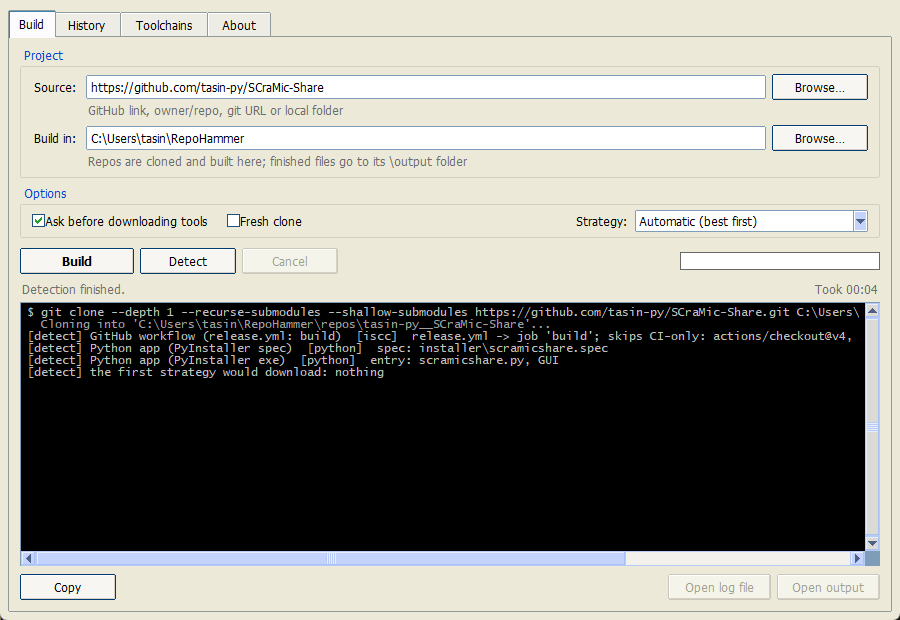
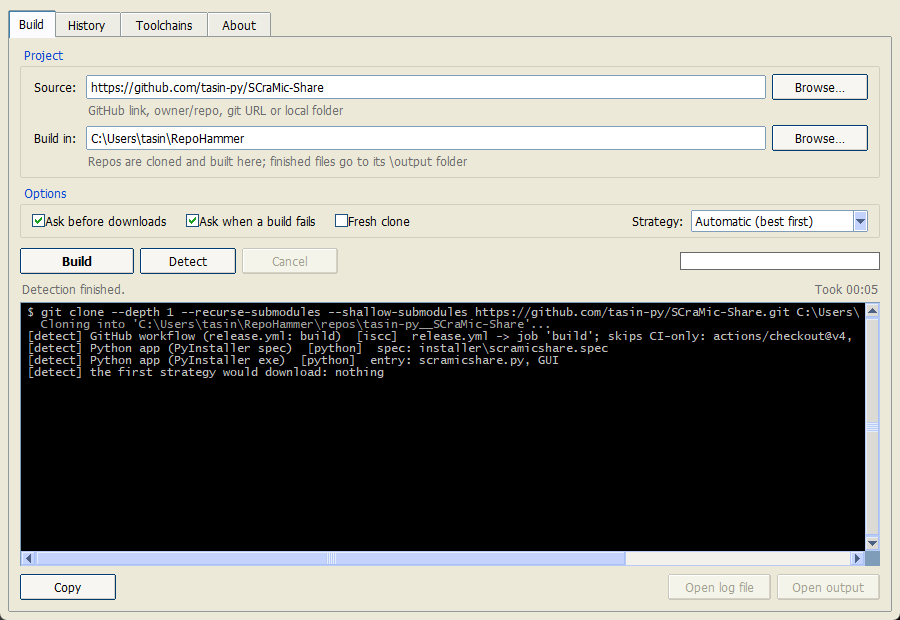
RepoHammer 1.2.0: ask what to do when a build fails
- Retry / Try another way / Stop popup after a failed strategy, with the reason, applied fixes and attempt time
- Same question on the command line; --no-ask keeps the automatic behaviour
- 'Ask when a build fails' option; download checkbox renamed 'Ask before downloads'
- README, changelog and screenshots updated

Changed region(s): [[0.6222, 0.3371, 0.9022, 0.3984], [0.1867, 0.3371, 0.4667, 0.3677]]

diff --git a/hammer/gui.py b/hammer/gui.py
@@ -152,6 +152,80 @@ class DownloadDialog(tk.Toplevel):
         self.destroy()
 
 
+class RetryDialog(tk.Toplevel):
+    """'This strategy failed - retry, try another way, or stop?'  R / T / S (Esc = stop)."""
+
+    def __init__(self, master, info):
+        super().__init__(master)
+        self.result = "stop"
+        remaining = info["remaining"]
+        self.title("Build failed")
+        self.configure(bg=FACE)
+        self.resizable(False, False)
+        self.transient(master)
+        body = ttk.Frame(self, padding=(16, 14, 16, 12))
+        body.pack(fill="both", expand=True)
+        took = fmt_secs(info["secs"]) if info["secs"] >= 1 else "under a second"
+        head = f"{info['plan']} didn't work (attempt {info['attempt']}, took {took})."
+        ttk.Label(body, text=head, wraplength=470, justify="left", font=FONT_B).pack(anchor="w")
+
+        box = tk.Frame(body, bg=BORDER)
+        box.pack(fill="x", pady=(8, 6))
+        lst = tk.Frame(box, bg=WHITE)
+        lst.pack(fill="x", padx=1, pady=1)
+        reasons = info["reasons"] or ["No known cause was recognised. The first error in the log shows what went wrong."]
+        for r in reasons[:4]:
+            tk.Label(lst, text="•  " + r, bg=WHITE, fg=TEXT, font=FONT, anchor="w", justify="left",
+                     wraplength=440).pack(fill="x", padx=8, pady=2)
+        if info["fixes"]:
+            note = "RepoHammer fixed: " + "; ".join(info["fixes"]) + ". Retrying should get further."
+        else:
+            note = ("Nothing was changed, so a retry will probably fail the same way, "
+                    "unless you fixed something yourself (for example, closed a program or reconnected).")
+        ttk.Label(body, text=note, style="Grey.TLabel", wraplength=470, justify="left").pack(anchor="w")
+        ttk.Label(body, text="A retry runs this strategy again; files already built are usually reused, "
+                  "so it's often faster.", style="Grey.TLabel", wraplength=470, justify="left").pack(anchor="w")
+
+        btns = ttk.Frame(body)
+        btns.pack(fill="x", pady=(12, 0))
+        retry = ttk.Button(btns, text="Retry", width=10, command=lambda: self._pick("retry"), underline=0)
+        retry.pack(side="left")
+        other = None
+        if remaining:
+            self.choice = ttk.Combobox(btns, state="readonly", width=28, values=remaining)
+            self.choice.current(0)
+            other = ttk.Button(btns, text="Try another way:", width=16, underline=0,
+                               command=lambda: self._pick(("plan", self.choice.get())))
+            other.pack(side="left", padx=(6, 4))
+            self.choice.pack(side="left")
+        stop = ttk.Button(btns, text="Stop", width=9, command=lambda: self._pick("stop"), underline=0)
+        stop.pack(side="right")
+        default = retry if (info["fixes"] or not other) else other
+        default.configure(style="Default.TButton")
+        keys = "Retry: R  ·  Another way: T  ·  Stop: S" if other else "Retry: R  ·  Stop: S"
+        ttk.Label(body, text=keys, style="Grey.TLabel").pack(anchor="w", pady=(6, 0))
+        self.bind("<Key-r>", lambda _e: self._pick("retry"))
+        self.bind("<Key-R>", lambda _e: self._pick("retry"))
+        if other:
+            self.bind("<Key-t>", lambda _e: other.invoke())
+            self.bind("<Key-T>", lambda _e: other.invoke())
+        for k in ("<Key-s>", "<Key-S>", "<Escape>"):
+            self.bind(k, lambda _e: self._pick("stop"))
+        self.bind("<Return>", lambda _e: default.invoke())
+        self.protocol("WM_DELETE_WINDOW", lambda: self._pick("stop"))
+        self.update_idletasks()
+        x = master.winfo_rootx() + (master.winfo_width() - self.winfo_width()) // 2
+        y = master.winfo_rooty() + (master.winfo_height() - self.winfo_height()) // 3
+        self.geometry(f"+{max(0, x)}+{max(0, y)}")
+        default.focus_set()
+        self.grab_set()
+        self.wait_window()
+
+    def _pick(self, choice):
+        self.result = choice
+        self.destroy()
+
+
 class App(tk.Tk):
     def __init__(self):
         super().__init__()
@@ -281,9 +355,11 @@ class App(tk.Tk):
         opts.pack(fill="x", pady=(8, 0))
         self.ask_dl = tk.BooleanVar(value=self.settings.get("ask_downloads", True))
         self.fresh = tk.BooleanVar(value=False)
-        ttk.Checkbutton(opts, text="Ask before downloading tools", variable=self.ask_dl).pack(side="left")
+        ttk.Checkbutton(opts, text="Ask before downloads", variable=self.ask_dl).pack(side="left")
+        self.ask_fail = tk.BooleanVar(value=self.settings.get("ask_on_fail", True))
+        ttk.Checkbutton(opts, text="Ask when a build fails", variable=self.ask_fail).pack(side="left", padx=(12, 0))
         ttk.Checkbutton(opts, text="Fresh clone", variable=self.fresh).pack(side="left", padx=(12, 0))
-        self.strategy = ttk.Combobox(opts, state="readonly", width=30, values=["Automatic (best first)"])
+        self.strategy = ttk.Combobox(opts, state="readonly", width=22, values=["Automatic (best first)"])
         self.strategy.current(0)
         self.strategy.pack(side="right")
         ttk.Label(opts, text="Strategy:").pack(side="right", padx=(0, 6))
@@ -449,8 +525,25 @@ class App(tk.Tk):
         ask = self.ask_dl.get()
         self.builder = build.Builder(wd, log=lambda m: self.q.put(("log", m)), auto_install=not ask,
                                      on_event=lambda *a: self.q.put(("event", a)),
-                                     confirm=self._confirm_from_worker if ask else None)
+                                     confirm=self._confirm_from_worker if ask else None,
+                                     on_fail=self._fail_from_worker if self.ask_fail.get() else None)
         return self.builder
+
+    # ------------------------------------------------------------ retry question
+    def _fail_from_worker(self, info):
+        """Called on the build thread after a strategy fails: ask retry / another way / stop."""
+        answer, done = ["stop"], threading.Event()
+        self.q.put(("fail", (info, answer, done)))
+        done.wait()
+        return answer[0]
+
+    def _ask_retry(self, info, answer, done):
+        started = time.time()
+        answer[0] = RetryDialog(self, info).result
+        self.t_start += time.time() - started  # time spent deciding isn't build time
+        if answer[0] != "stop":
+            self.estimate = None  # the old estimate no longer fits; the next strategy sets a new one
+        done.set()
 
     # ------------------------------------------------------------ download question
     def _confirm_from_worker(self, items, context):
@@ -506,7 +599,7 @@ class App(tk.Tk):
         b = self._new_builder()
         if not b:
             return
-        self.settings.update(ask_downloads=self.ask_dl.get())
+        self.settings.update(ask_downloads=self.ask_dl.get(), ask_on_fail=self.ask_fail.get())
         save_settings(self.settings)
         self._clear_log()
         choice = self.strategy.get()
@@ -581,6 +674,8 @@ class App(tk.Tk):
                     self._done(val)
                 elif kind == "ask":
                     self._ask_downloads(*val)
+                elif kind == "fail":
+                    self._ask_retry(*val)
                 elif kind == "tools":
                     self._waiting = max(0, self._waiting - 1)
                     self._fill_tools(val)

diff --git a/hammer/build.py b/hammer/build.py
@@ -25,8 +25,11 @@ class Cancelled(Exception):
 
 
 class Builder:
-    def __init__(self, workdir=DEFAULT_WORKDIR, log=print, auto_install=True, on_event=None, confirm=None):
+    def __init__(self, workdir=DEFAULT_WORKDIR, log=print, auto_install=True, on_event=None, confirm=None,
+                 on_fail=None):
         self.workdir = os.path.normpath(workdir)
+        # on_fail(info) -> 'retry' | 'next' | ('plan', name) | 'stop' lets the user decide after a failure.
+        self._on_fail = on_fail
         # confirm(items, context) -> bool asks the user before anything is downloaded.
         # items: [(id, label, approx size)]. Without it, auto_install decides.
         self._confirm = confirm
@@ -142,29 +145,56 @@ class Builder:
             out_dir = os.path.join(self.workdir, "output", name, stamp)
             any_ok = False
             self._why = []
+            stopped = False
             for cwd, group in groups.items():
-                for plan in group:
-                    self._check()
-                    started = time.time()
-                    self.event("plan", plan.name)
-                    self._tail = []
-                    ok = self._run_plan(plan)
-                    if not ok and not self._cancel.is_set():
-                        fixes = heal.heal(chr(10).join(self._tail), self)
-                        if fixes:
-                            self.log(f"[heal] retrying {plan.name} after {len(fixes)} fix(es)")
-                            self._tail = []
-                            ok = self._run_plan(plan)
-                    if not ok:
-                        self._why += heal.diagnose(chr(10).join(self._tail))
+                order = list(group)
+                i = 0
+                built_here = False
+                while i < len(order) and not stopped:
+                    plan = order[i]
+                    attempt = 0
+                    while True:
+                        self._check()
+                        started = time.time()
+                        self.event("plan", plan.name)
+                        self._tail = []
+                        attempt += 1
+                        ok = self._run_plan(plan)
+                        if ok:
+                            break
+                        self._check()
+                        tail = chr(10).join(self._tail)
+                        fixes = heal.heal(tail, self)
+                        reasons = heal.diagnose(tail)
+                        choice = self._after_failure(plan, order[i + 1:], fixes, reasons, attempt,
+                                                     time.time() - started)
+                        if choice == "retry":
+                            self.log(f"[build] retrying {plan.name} (attempt {attempt + 1})"
+                                     + (f" after {len(fixes)} fix(es)" if fixes else ""))
+                            continue
+                        self._why += reasons
+                        if choice == "stop":
+                            stopped = True
+                        elif isinstance(choice, tuple):  # ("plan", name): jump to that strategy next
+                            pick = next((p for p in order[i + 1:] if p.name == choice[1]), None)
+                            if pick:
+                                order.remove(pick)
+                                order.insert(i + 1, pick)
+                        break
                     if ok:
                         files = self._collect(plan, started, src, out_dir)
                         result["built"].append(plan.name)
                         result["artifacts"] += files
-                        any_ok = True
+                        any_ok = built_here = True
                         break
-                    self.log(f"[build] {plan.name} failed - trying the next strategy\n")
-                else:
+                    if stopped:
+                        self.log(f"[build] {plan.name} failed - stopping here, as you chose")
+                    elif i + 1 < len(order):
+                        self.log(f"[build] {plan.name} failed - trying {order[i + 1].name}\n")
+                    i += 1
+                if stopped:
+                    break
+                if not built_here:
                     self.log(f"[build] every strategy failed for {os.path.relpath(cwd, src)}")
             result["ok"] = any_ok
             result["output"] = out_dir if result["artifacts"] else ""
@@ -194,6 +224,24 @@ class Builder:
             result["secs"] = round(time.time() - t0)
             self._save_history(result)
         return result
+
+    def _after_failure(self, plan, remaining, fixes, reasons, attempt, secs):
+        """What to do after a strategy failed: 'retry', 'next', ('plan', name) or 'stop'.
+
+        With an on_fail callback the user decides; without one RepoHammer retries once,
+        and only when a fix was applied, then moves on to the next strategy."""
+        if self._on_fail:
+            info = {"plan": plan.name, "remaining": [p.name for p in remaining], "fixes": fixes,
+                    "reasons": reasons, "attempt": attempt, "secs": round(secs)}
+            try:
+                choice = self._on_fail(info)
+            except Exception:
+                choice = None
+            if choice in ("retry", "next", "stop") or (isinstance(choice, tuple) and choice[0] == "plan"):
+                if choice == "next" and not remaining:
+                    return "stop"
+                return choice
+        return "retry" if (fixes and attempt == 1) else "next"
 
     # ------------------------------------------------------------ plans
     def _check(self):

diff --git a/hammer/cli.py b/hammer/cli.py
@@ -22,6 +22,33 @@ def ask(items, context):
         return False
 
 
+def ask_retry(info):
+    """Terminal version of the 'build failed - what now?' question."""
+    print()
+    print(f"{info['plan']} didn't work (attempt {info['attempt']}, took {info['secs']}s).")
+    for r in info["reasons"][:4]:
+        print(f"  - {r}")
+    if info["fixes"]:
+        print("  RepoHammer fixed: " + "; ".join(info["fixes"]) + ". Retrying should get further.")
+    if not sys.stdin or not sys.stdin.isatty():
+        return "retry" if (info["fixes"] and info["attempt"] == 1) else "next"
+    rest = info["remaining"]
+    if rest:
+        print("  Other ways to build: " + ", ".join(f"[{i}] {n}" for i, n in enumerate(rest, 1)))
+    prompt = "[R]etry, " + ("[T]ry the next way (or its number), " if rest else "") + "[S]top? "
+    try:
+        a = input(prompt).strip().lower()
+    except EOFError:
+        return "stop"
+    if a in ("r", "retry"):
+        return "retry"
+    if rest and a.isdigit() and 1 <= int(a) <= len(rest):
+        return ("plan", rest[int(a) - 1])
+    if rest and a in ("", "t", "n", "next"):
+        return "next"
+    return "stop"
+
+
 def main(argv):
     for stream in (sys.stdout, sys.stderr):
         try:
@@ -35,6 +62,8 @@ def main(argv):
     b.add_argument("--yes", "-y", action="store_true", help="download needed tools without asking")
     b.add_argument("--no-install", action="store_true", help="never download tools (answer No)")
     b.add_argument("--fresh", action="store_true", help="delete any previous clone first")
+    b.add_argument("--no-ask", action="store_true",
+                   help="don't ask after a failure: retry once if a fix was applied, then try the next way")
     b.add_argument("--plan", help="force a specific strategy by name")
     b.add_argument("--workdir", default=build.DEFAULT_WORKDIR)
     d = sub.add_parser("detect", help="show how a repository would be built")
@@ -57,7 +86,8 @@ def main(argv):
                       + ("  (optional)" if any(getattr(a, "soft", False) for a in s) else ""))
         return 0 if plans else 1
     confirm = None if (a.yes or a.no_install) else ask
-    res = build.Builder(a.workdir, auto_install=a.yes, confirm=confirm).run(a.repo, a.fresh, a.plan)
+    res = build.Builder(a.workdir, auto_install=a.yes, confirm=confirm,
+                        on_fail=None if a.no_ask else ask_retry).run(a.repo, a.fresh, a.plan)
     return 0 if res["ok"] else 1
 
 

diff --git a/hammer/__init__.py b/hammer/__init__.py
@@ -1,7 +1,7 @@
 """RepoHammer - build any GitHub repository locally, automatically."""
 
 APP_NAME = "RepoHammer"
-VERSION = "1.1.0"
+VERSION = "1.2.0"
 DESCRIPTION = ("Paste a GitHub link and RepoHammer clones it, detects how it builds, "
                "asks before downloading any missing tools, and compiles it on your own PC.")
 LICENSE = "MIT"

diff --git a/README.md b/README.md
@@ -47,7 +47,7 @@ It's one small Python app with no packages to install. It uses about 45 MB of RA
   | Others | Flutter, Deno, Docker |
 
 - **Asks before downloading anything.** After checking the repo, RepoHammer lists the tools it needs with their approximate sizes. Press **Y** to download them with winget (Git, Node, the right .NET SDK, Visual Studio Build Tools, CMake, Inno Setup and more), or **N** to skip them and try other ways to build.
-- **Backs off and retries.** Each step has fallbacks (for example `npm ci` → `npm install` → `npm install --legacy-peer-deps`), and if one approach fails it moves on to the next.
+- **You decide what happens after a failure.** Each step has fallbacks (for example `npm ci` → `npm install` → `npm install --legacy-peer-deps`). If a whole strategy still fails, RepoHammer shows why and asks: **Retry**, **Try another way** (pick from the other strategies) or **Stop**. Untick **Ask when a build fails** to let it retry once after a fix and then move on by itself.
 - **Fixes common failures by itself:** missing .NET Framework reference assemblies, a newer .NET SDK needed, no Rust toolchain selected, Git long-path and ownership errors, and old webpack OpenSSL errors.
 - **Explains failures it can't fix,** for example *"The source code is incomplete: the project expects 3 file(s) that aren't in the download."*
 - **Collects the results** into `output\<repo>\<time>\`, with a full log of every build.
@@ -66,6 +66,10 @@ It's one small Python app with no packages to install. It uses about 45 MB of RA
 Before anything is downloaded, RepoHammer asks:
 
 <p align="center"><img src="docs/screenshots/download-question.png" alt="Dialog listing Zig (about 50 MB) as a needed download, with Yes and No buttons" width="470"></p>
+
+If a strategy fails, it tells you why and lets you choose what happens next:
+
+<p align="center"><img src="docs/screenshots/retry-question.png" alt="Build failed dialog with the reason, the fix RepoHammer applied, and Retry, Try another way and Stop buttons" width="596"></p>
 
 ## Install
 
@@ -91,7 +95,7 @@ To update later, open **About** and click **Check for Updates**. RepoHammer down
 1. Paste a GitHub link into **Source**, or click **Browse…** to pick a folder.
 2. Optionally change **Build in**, the folder where repos are cloned and built.
 3. Click **Build**. You'll see the live log, the elapsed time and an estimate.
-4. If tools are missing, RepoHammer lists them and asks first. Press **Y** to download them or **N** to skip them. To download without being asked, untick **Ask before downloading tools**.
+4. If tools are missing, RepoHammer lists them and asks first. Press **Y** to download them or **N** to skip them. To download without being asked, untick **Ask before downloads**.
 5. When it finishes, you'll hear a chime. Click **Open output** to see the built files.
 
 Use **Detect** to see which strategies RepoHammer would try without building, and **Strategy** to force a specific one.
@@ -127,15 +131,10 @@ Building a project runs that project's own build scripts on your PC, with your u
 The latest changes, ready to copy:
 
 ```text
-1.1.0
-- RepoHammer now asks before it downloads anything. After it works out how to build a repo, it lists the tools it needs with their approximate sizes. Press Y to download them or N to skip them, and RepoHammer then tries other ways to build that don't need them.
-- The same question covers every download: Git, .NET SDKs, Python versions, Inno Setup and the automatic fixes.
-- Detect shows what the first strategy would download.
-- On the command line, a [Y/n] prompt appears. Use --yes to allow downloads without asking.
-- The Source box starts empty each time the app opens.
-- Fixed the Toolchains tab sometimes staying on "checking...".
-- New name and icon: RepoHammer, with a hammer and lightning icon.
-- A chime plays when a build succeeds, instead of the Windows error sound.
+1.2.0
+- When a build strategy fails, RepoHammer now asks what to do: Retry, Try another way (choose which strategy) or Stop. It shows why it failed, what it fixed and how long the attempt took. Untick "Ask when a build fails" to keep the old automatic behaviour.
+- On the command line, the same question appears as [R]etry, [T]ry the next way, [S]top. Use --no-ask to skip it.
+- The download checkbox is now called "Ask before downloads", to make room for the new option.
 ```
 
 The full history is in [CHANGELOG.md](CHANGELOG.md).

diff --git a/CHANGELOG.md b/CHANGELOG.md
@@ -1,5 +1,11 @@
 # Changelog
 
+## 1.2.0
+
+- When a build strategy fails, RepoHammer now asks what to do: **Retry**, **Try another way** (choose which strategy) or **Stop**. It shows why it failed, what it fixed and how long the attempt took. Untick **Ask when a build fails** to keep the old automatic behaviour.
+- On the command line, the same question appears as `[R]etry, [T]ry the next way, [S]top`. Use `--no-ask` to skip it.
+- The download checkbox is now called **Ask before downloads**, to make room for the new option.
+
 ## 1.1.0
 
 - RepoHammer now asks before it downloads anything. After it works out how to build a repo, it lists the tools it needs to download with their approximate sizes. Press **Y** to download them or **N** to skip them, and RepoHammer then tries other ways to build that don't need them.
